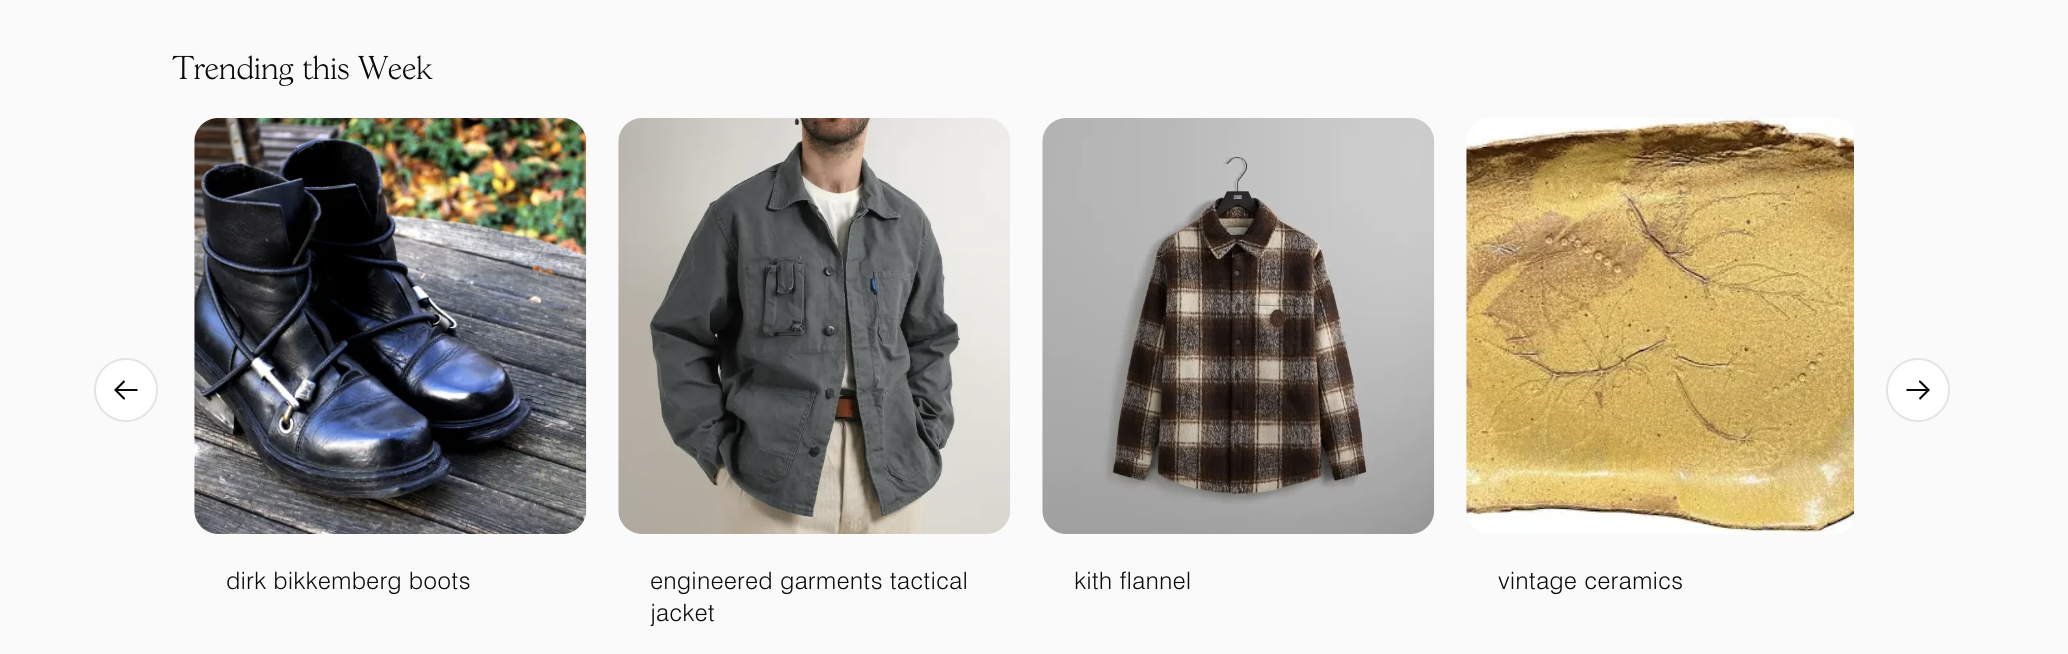
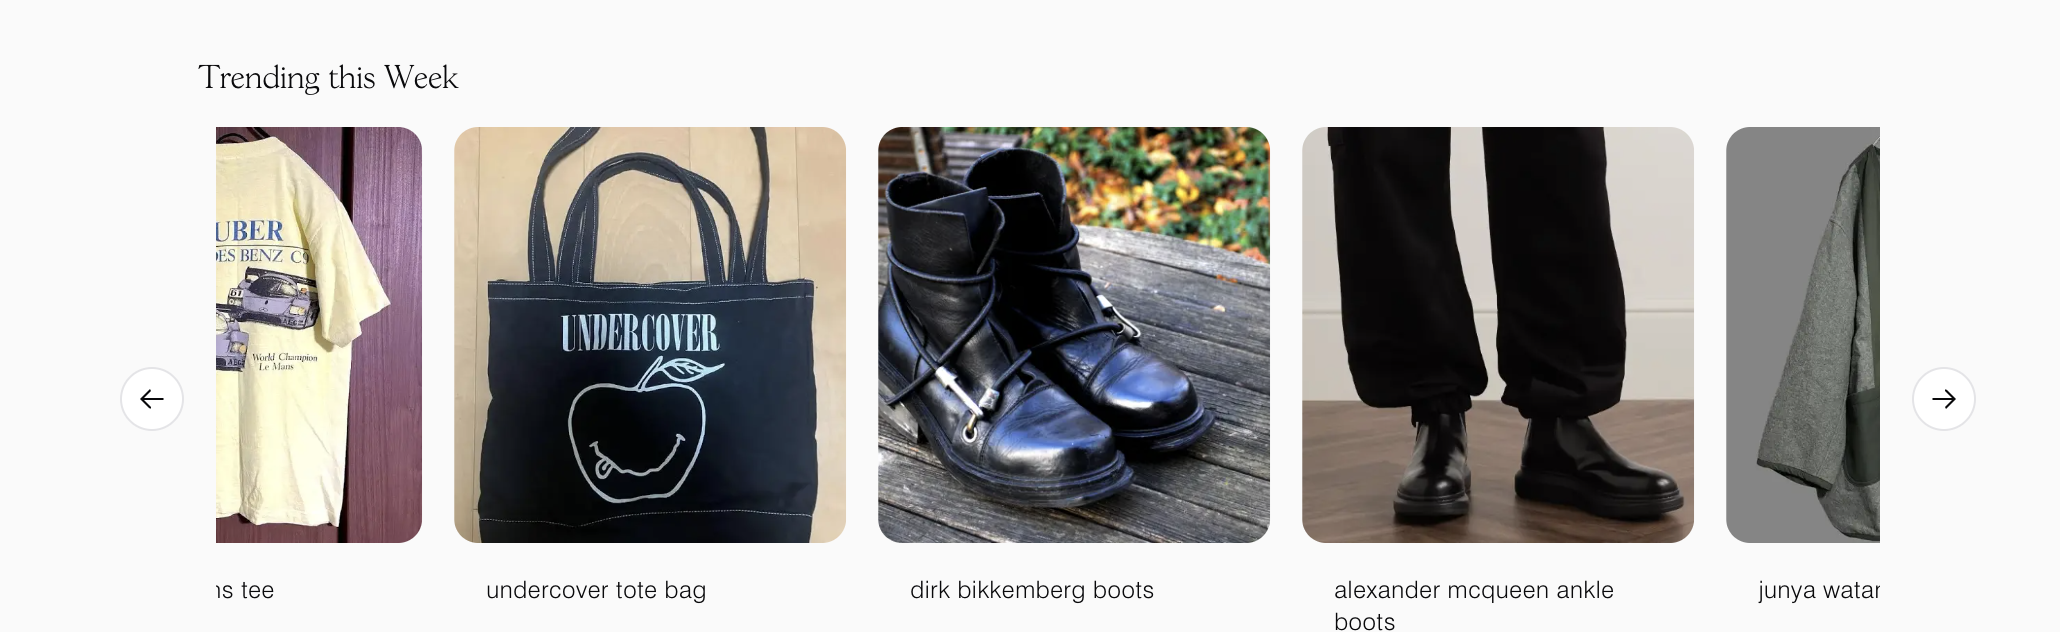
Works!

diff --git a/src/components/hero.tsx b/src/components/hero.tsx
@@ -89,6 +89,8 @@ export default function Hero({ showSearch = true }: HeroProps = {}) {
   const [currentMediaIndex, setCurrentMediaIndex] = useState(0);
   const [isVideoPlaying, setIsVideoPlaying] = useState(true);
   const mediaTransitionRef = useRef<NodeJS.Timeout | null>(null);
+  const [currentStyleImageIndex, setCurrentStyleImageIndex] = useState(0);
+  const [favoriteImages, setFavoriteImages] = useState<Set<string>>(new Set());
   const supabase = createClient();
 
   const generateOutfit = async (query: string) => {
@@ -1352,7 +1354,7 @@ export default function Hero({ showSearch = true }: HeroProps = {}) {
                               {selectedCelebrity &&
                               celebrityMediaGallery[selectedCelebrity] ? (
                                 // Show dynamic media for selected celebrity
-                                <div className="w-full h-[400px] bg-gradient-to-br from-gray-50 to-gray-100 overflow-hidden relative shadow-lg border border-gray-200/50 rounded-2xl">
+                                <div className="w-full h-[500px] bg-gradient-to-br from-gray-50 to-gray-100 overflow-hidden relative shadow-lg border border-gray-200/50 rounded-2xl">
                                   <img
                                     src={
                                       celebrityMediaGallery[selectedCelebrity][
@@ -1373,6 +1375,83 @@ export default function Hero({ showSearch = true }: HeroProps = {}) {
                                     }}
                                   />
 
+                                  {/* Navigation arrows */}
+                                  <button
+                                    onClick={() => {
+                                      const gallery =
+                                        celebrityMediaGallery[
+                                          selectedCelebrity
+                                        ];
+                                      setCurrentMediaIndex((prev) =>
+                                        prev === 0
+                                          ? gallery.length - 1
+                                          : prev - 1,
+                                      );
+                                    }}
+                                    className="absolute left-3 top-1/2 -translate-y-1/2 w-10 h-10 bg-white/90 hover:bg-white rounded-full shadow-lg flex items-center justify-center transition-all duration-200 hover:scale-110 z-10"
+                                  >
+                                    <ChevronLeft className="w-5 h-5 text-gray-700" />
+                                  </button>
+                                  <button
+                                    onClick={() => {
+                                      const gallery =
+                                        celebrityMediaGallery[
+                                          selectedCelebrity
+                                        ];
+                                      setCurrentMediaIndex((prev) =>
+                                        prev === gallery.length - 1
+                                          ? 0
+                                          : prev + 1,
+                                      );
+                                    }}
+                                    className="absolute right-3 top-1/2 -translate-y-1/2 w-10 h-10 bg-white/90 hover:bg-white rounded-full shadow-lg flex items-center justify-center transition-all duration-200 hover:scale-110 z-10"
+                                  >
+                                    <ChevronRight className="w-5 h-5 text-gray-700" />
+                                  </button>
+
+                                  {/* Favorite button */}
+                                  <button
+                                    onClick={() => {
+                                      const imageKey = `${selectedCelebrity}-${currentMediaIndex}`;
+                                      setFavoriteImages((prev) => {
+                                        const newSet = new Set(prev);
+                                        if (newSet.has(imageKey)) {
+                                          newSet.delete(imageKey);
+                                        } else {
+                                          newSet.add(imageKey);
+                                        }
+                                        return newSet;
+                                      });
+                                    }}
+                                    className="absolute top-3 right-3 w-10 h-10 bg-white/90 hover:bg-white rounded-full shadow-lg flex items-center justify-center transition-all duration-200 hover:scale-110 z-10"
+                                  >
+                                    <svg
+                                      className={`w-5 h-5 transition-colors ${
+                                        favoriteImages.has(
+                                          `${selectedCelebrity}-${currentMediaIndex}`,
+                                        )
+                                          ? "text-red-500 fill-current"
+                                          : "text-gray-600 hover:text-red-400"
+                                      }`}
+                                      fill={
+                                        favoriteImages.has(
+                                          `${selectedCelebrity}-${currentMediaIndex}`,
+                                        )
+                                          ? "currentColor"
+                                          : "none"
+                                      }
+                                      stroke="currentColor"
+                                      viewBox="0 0 24 24"
+                                    >
+                                      <path
+                                        strokeLinecap="round"
+                                        strokeLinejoin="round"
+                                        strokeWidth={2}
+                                        d="M4.318 6.318a4.5 4.5 0 000 6.364L12 20.364l7.682-7.682a4.5 4.5 0 00-6.364-6.364L12 7.636l-1.318-1.318a4.5 4.5 0 00-6.364 0z"
+                                      />
+                                    </svg>
+                                  </button>
+
                                   {/* Elegant overlay gradient */}
                                   <div className="absolute inset-0 bg-gradient-to-t from-black/5 via-transparent to-transparent pointer-events-none rounded-2xl" />
 
@@ -1383,18 +1462,21 @@ export default function Hero({ showSearch = true }: HeroProps = {}) {
                                     ].map((_, index) => (
                                       <div
                                         key={index}
-                                        className={`w-2.5 h-2.5 rounded-full transition-all duration-300 ${
+                                        className={`w-2.5 h-2.5 rounded-full transition-all duration-300 cursor-pointer ${
                                           index === currentMediaIndex
                                             ? "bg-white shadow-lg scale-110 ring-2 ring-white/30"
                                             : "bg-white/60 hover:bg-white/80"
                                         }`}
+                                        onClick={() =>
+                                          setCurrentMediaIndex(index)
+                                        }
                                       />
                                     ))}
                                   </div>
                                 </div>
                               ) : (
                                 // Show default image for no celebrity selected
-                                <div className="w-full h-[400px] overflow-hidden bg-gradient-to-br from-gray-50 to-gray-100 hover:scale-[1.01] transition-all duration-300 cursor-pointer border border-gray-200/50 shadow-lg rounded-2xl relative">
+                                <div className="w-full h-[500px] overflow-hidden bg-gradient-to-br from-gray-50 to-gray-100 hover:scale-[1.01] transition-all duration-300 cursor-pointer border border-gray-200/50 shadow-lg rounded-2xl relative">
                                   <img
                                     src="/images/style-inspiration.jpg"
                                     alt="Featured style inspiration"
@@ -1406,6 +1488,46 @@ export default function Hero({ showSearch = true }: HeroProps = {}) {
                                         "https://images.unsplash.com/photo-1441986300917-64674bd600d8?w=600&q=80";
                                     }}
                                   />
+
+                                  {/* Favorite button for default image */}
+                                  <button
+                                    onClick={() => {
+                                      const imageKey = "default-style";
+                                      setFavoriteImages((prev) => {
+                                        const newSet = new Set(prev);
+                                        if (newSet.has(imageKey)) {
+                                          newSet.delete(imageKey);
+                                        } else {
+                                          newSet.add(imageKey);
+                                        }
+                                        return newSet;
+                                      });
+                                    }}
+                                    className="absolute top-3 right-3 w-10 h-10 bg-white/90 hover:bg-white rounded-full shadow-lg flex items-center justify-center transition-all duration-200 hover:scale-110 z-10"
+                                  >
+                                    <svg
+                                      className={`w-5 h-5 transition-colors ${
+                                        favoriteImages.has("default-style")
+                                          ? "text-red-500 fill-current"
+                                          : "text-gray-600 hover:text-red-400"
+                                      }`}
+                                      fill={
+                                        favoriteImages.has("default-style")
+                                          ? "currentColor"
+                                          : "none"
+                                      }
+                                      stroke="currentColor"
+                                      viewBox="0 0 24 24"
+                                    >
+                                      <path
+                                        strokeLinecap="round"
+                                        strokeLinejoin="round"
+                                        strokeWidth={2}
+                                        d="M4.318 6.318a4.5 4.5 0 000 6.364L12 20.364l7.682-7.682a4.5 4.5 0 00-6.364-6.364L12 7.636l-1.318-1.318a4.5 4.5 0 00-6.364 0z"
+                                      />
+                                    </svg>
+                                  </button>
+
                                   {/* Elegant overlay */}
                                   <div className="absolute inset-0 bg-gradient-to-t from-black/5 via-transparent to-transparent pointer-events-none rounded-2xl" />
                                 </div>
@@ -1426,32 +1548,6 @@ export default function Hero({ showSearch = true }: HeroProps = {}) {
                                     : "Effortless urban fashion"}
                                 </p>
                               </div>
-                            </div>
-
-                            {/* Footer */}
-                            <div className="border-t border-gray-200 p-4 flex-shrink-0">
-                              <button className="w-full flex items-center justify-center gap-2 py-3 px-4 bg-black hover:bg-gray-800 text-white rounded-lg font-medium transition-all duration-200 shadow-md hover:shadow-lg">
-                                <svg
-                                  className="w-5 h-5"
-                                  fill="none"
-                                  stroke="currentColor"
-                                  viewBox="0 0 24 24"
-                                >
-                                  <path
-                                    strokeLinecap="round"
-                                    strokeLinejoin="round"
-                                    strokeWidth={2}
-                                    d="M15 12a3 3 0 11-6 0 3 3 0 016 0z"
-                                  />
-                                  <path
-                                    strokeLinecap="round"
-                                    strokeLinejoin="round"
-                                    strokeWidth={2}
-                                    d="M2.458 12C3.732 7.943 7.523 5 12 5c4.478 0 8.268 2.943 9.542 7-1.274 4.057-5.064 7-9.542 7-4.477 0-8.268-2.943-9.542-7z"
-                                  />
-                                </svg>
-                                View More Styles
-                              </button>
                             </div>
                           </div>
                         )}
@@ -1518,21 +1614,40 @@ export default function Hero({ showSearch = true }: HeroProps = {}) {
 
               {/* Celebrity Trends Section - Only show if no outfit suggestions and showSearch is true */}
               {!outfitSuggestions && showSearch && (
-                <div className="max-w-6xl mx-auto px-4">
-                  <div className="text-center mb-8">
-                    <h2 className="text-xl sm:text-2xl font-bold text-gray-900 mb-2">
-                      Trending Celebrity Styles
+                <div className="max-w-7xl mx-auto px-4">
+                  <div className="text-left mb-8">
+                    <h2 className="text-2xl sm:text-3xl font-light text-gray-900 mb-2 tracking-wide">
+                      Trending this Week
                     </h2>
-                    <p className="text-gray-600 text-sm sm:text-base">
-                      Get inspired by your favorite celebrities' latest looks
-                    </p>
                   </div>
 
-                  {/* Auto-scrolling celebrity cards */}
+                  {/* Navigation arrows */}
                   <div className="relative">
+                    <button
+                      onClick={() => {
+                        if (scrollContainerRef.current) {
+                          scrollContainerRef.current.scrollLeft -= 320;
+                        }
+                      }}
+                      className="absolute left-0 top-1/2 -translate-y-1/2 z-10 w-12 h-12 bg-white/90 hover:bg-white rounded-full shadow-lg flex items-center justify-center transition-all duration-200 hover:scale-110 border border-gray-200"
+                    >
+                      <ChevronLeft className="w-6 h-6 text-gray-700" />
+                    </button>
+                    <button
+                      onClick={() => {
+                        if (scrollContainerRef.current) {
+                          scrollContainerRef.current.scrollLeft += 320;
+                        }
+                      }}
+                      className="absolute right-0 top-1/2 -translate-y-1/2 z-10 w-12 h-12 bg-white/90 hover:bg-white rounded-full shadow-lg flex items-center justify-center transition-all duration-200 hover:scale-110 border border-gray-200"
+                    >
+                      <ChevronRight className="w-6 h-6 text-gray-700" />
+                    </button>
+
+                    {/* Auto-scrolling celebrity cards */}
                     <div
                       ref={scrollContainerRef}
-                      className="flex gap-4 overflow-x-auto scrollbar-hide pb-4"
+                      className="flex gap-6 overflow-x-auto scrollbar-hide pb-4 px-16"
                       style={{
                         scrollBehavior: "smooth",
                         scrollbarWidth: "none",
@@ -1546,54 +1661,23 @@ export default function Hero({ showSearch = true }: HeroProps = {}) {
                         (trend, index) => (
                           <div
                             key={`${trend.name}-${index}`}
-                            className="flex-shrink-0 w-40 cursor-pointer group"
+                            className="flex-shrink-0 w-72 cursor-pointer group"
                             onClick={() =>
                               handleStyleClick(trend.query, trend.name)
                             }
                           >
-                            <div className="bg-white rounded-xl border border-gray-200 overflow-hidden shadow-sm hover:shadow-lg transition-all duration-300 group-hover:scale-105">
-                              <div className="aspect-square overflow-hidden">
+                            <div className="bg-white rounded-2xl overflow-hidden shadow-sm hover:shadow-xl transition-all duration-500 group-hover:-translate-y-2 border border-gray-100">
+                              <div className="aspect-[4/3] overflow-hidden bg-gray-50">
                                 <img
                                   src={trend.image}
                                   alt={trend.name}
-                                  className="w-full h-full object-cover group-hover:scale-110 transition-transform duration-300"
+                                  className="w-full h-full object-cover group-hover:scale-105 transition-transform duration-700"
                                 />
                               </div>
-                              <div className="p-3">
-                                <h3 className="font-semibold text-gray-900 text-sm mb-2 truncate">
-                                  {trend.name}
+                              <div className="p-6">
+                                <h3 className="font-normal text-gray-900 text-base mb-1 tracking-wide">
+                                  {trend.name.toLowerCase()}
                                 </h3>
-                                <div className="flex flex-wrap gap-1 mb-2">
-                                  {trend.tags
-                                    .slice(0, 1)
-                                    .map((tag, tagIndex) => (
-                                      <span
-                                        key={tagIndex}
-                                        className={`px-2 py-1 rounded-full text-xs font-medium ${tag.color}`}
-                                      >
-                                        {tag.name}
-                                      </span>
-                                    ))}
-                                  {trend.platform !== "Celebrity" && (
-                                    <span
-                                      className={`px-2 py-1 rounded-full text-xs font-medium ${
-                                        trend.platform === "Instagram"
-                                          ? "bg-gradient-to-r from-purple-500 to-pink-500 text-white"
-                                          : trend.platform === "TikTok"
-                                            ? "bg-gradient-to-r from-gray-800 to-gray-600 text-white"
-                                            : trend.platform === "YouTube"
-                                              ? "bg-red-600 text-white"
-                                              : "bg-gray-100 text-gray-700"
-                                      }`}
-                                    >
-                                      {trend.platform}
-                                    </span>
-                                  )}
-                                </div>
-                                <div className="flex items-center text-slate-600 text-xs font-medium">
-                                  <Sparkles className="w-3 h-3 mr-1" />
-                                  Get the look
-                                </div>
                               </div>
                             </div>
                           </div>
